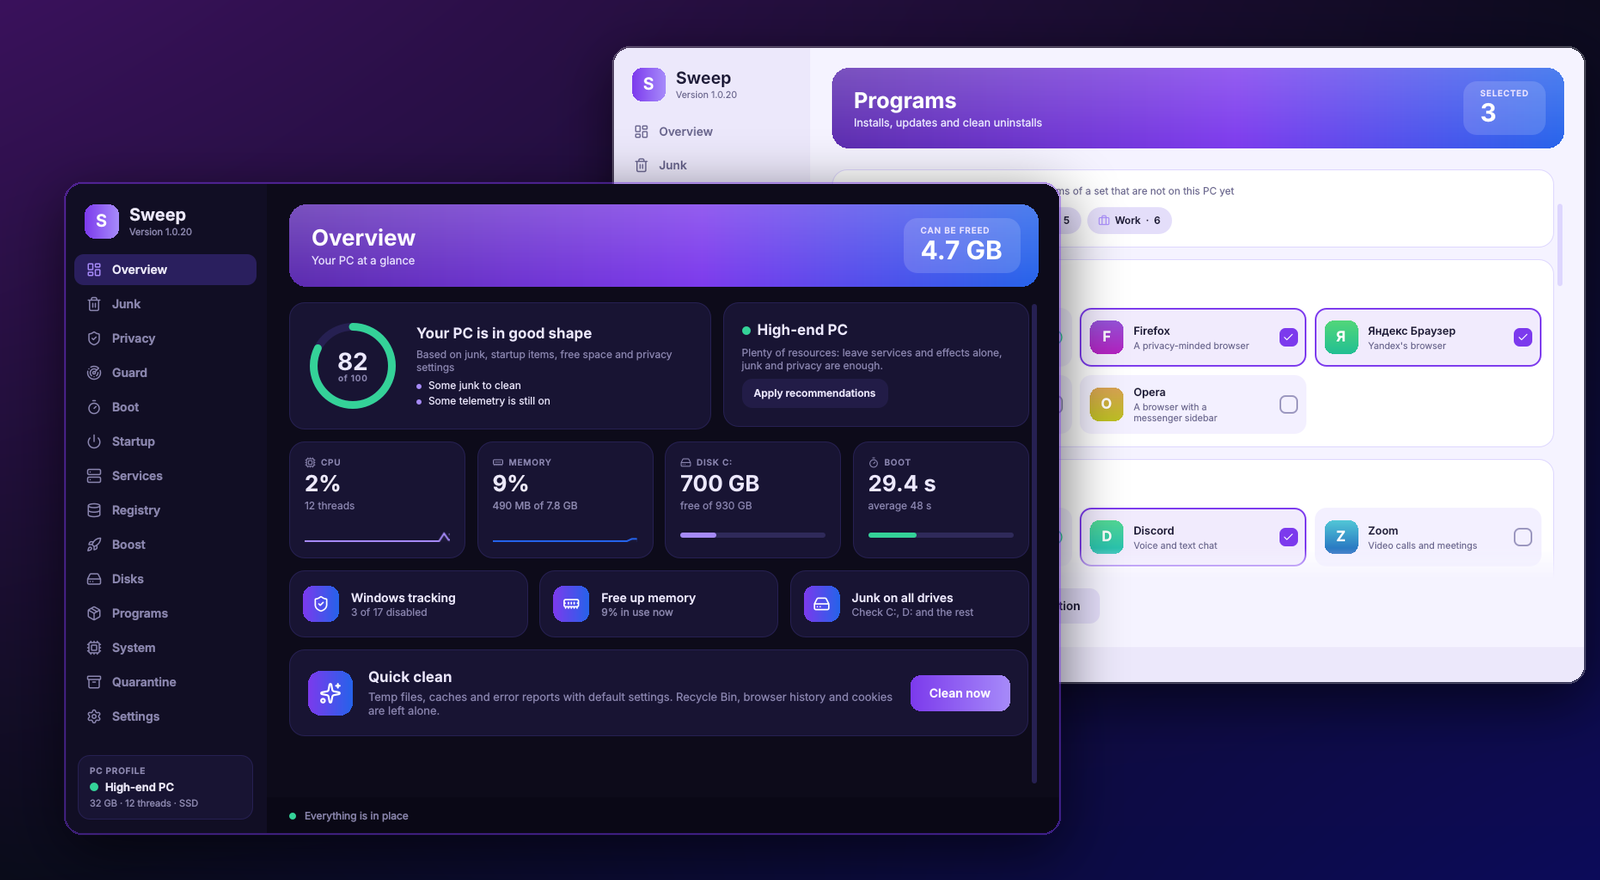
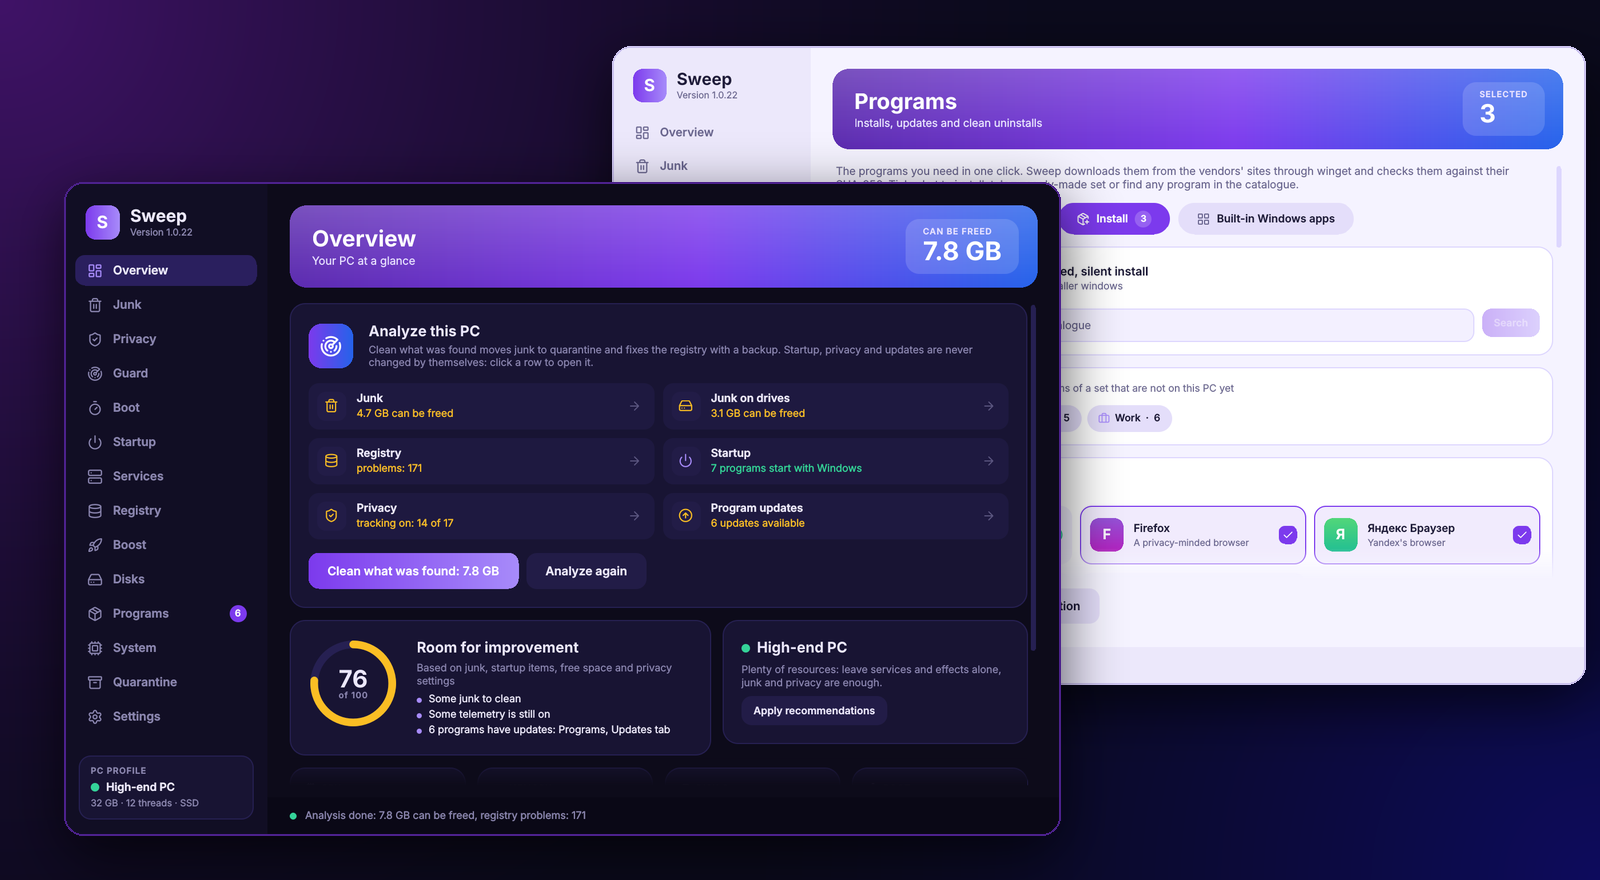
Sweep 1.0.22: Analyze on the Overview, cleaning keeps default apps; new hero and screenshots
Claude-Session: https://claude.ai/code/session_01X1iwdLJgX9nEHfX8nCCy4Y

diff --git a/app/sweep/platform.py b/app/sweep/platform.py
@@ -9,7 +9,7 @@ import sys
 from pathlib import Path
 
 IS_WINDOWS = sys.platform == "win32"
-APP_VERSION = "1.0.21"
+APP_VERSION = "1.0.22"
 UPDATE_REPO = "drakedog-dev/sweep"
 
 
